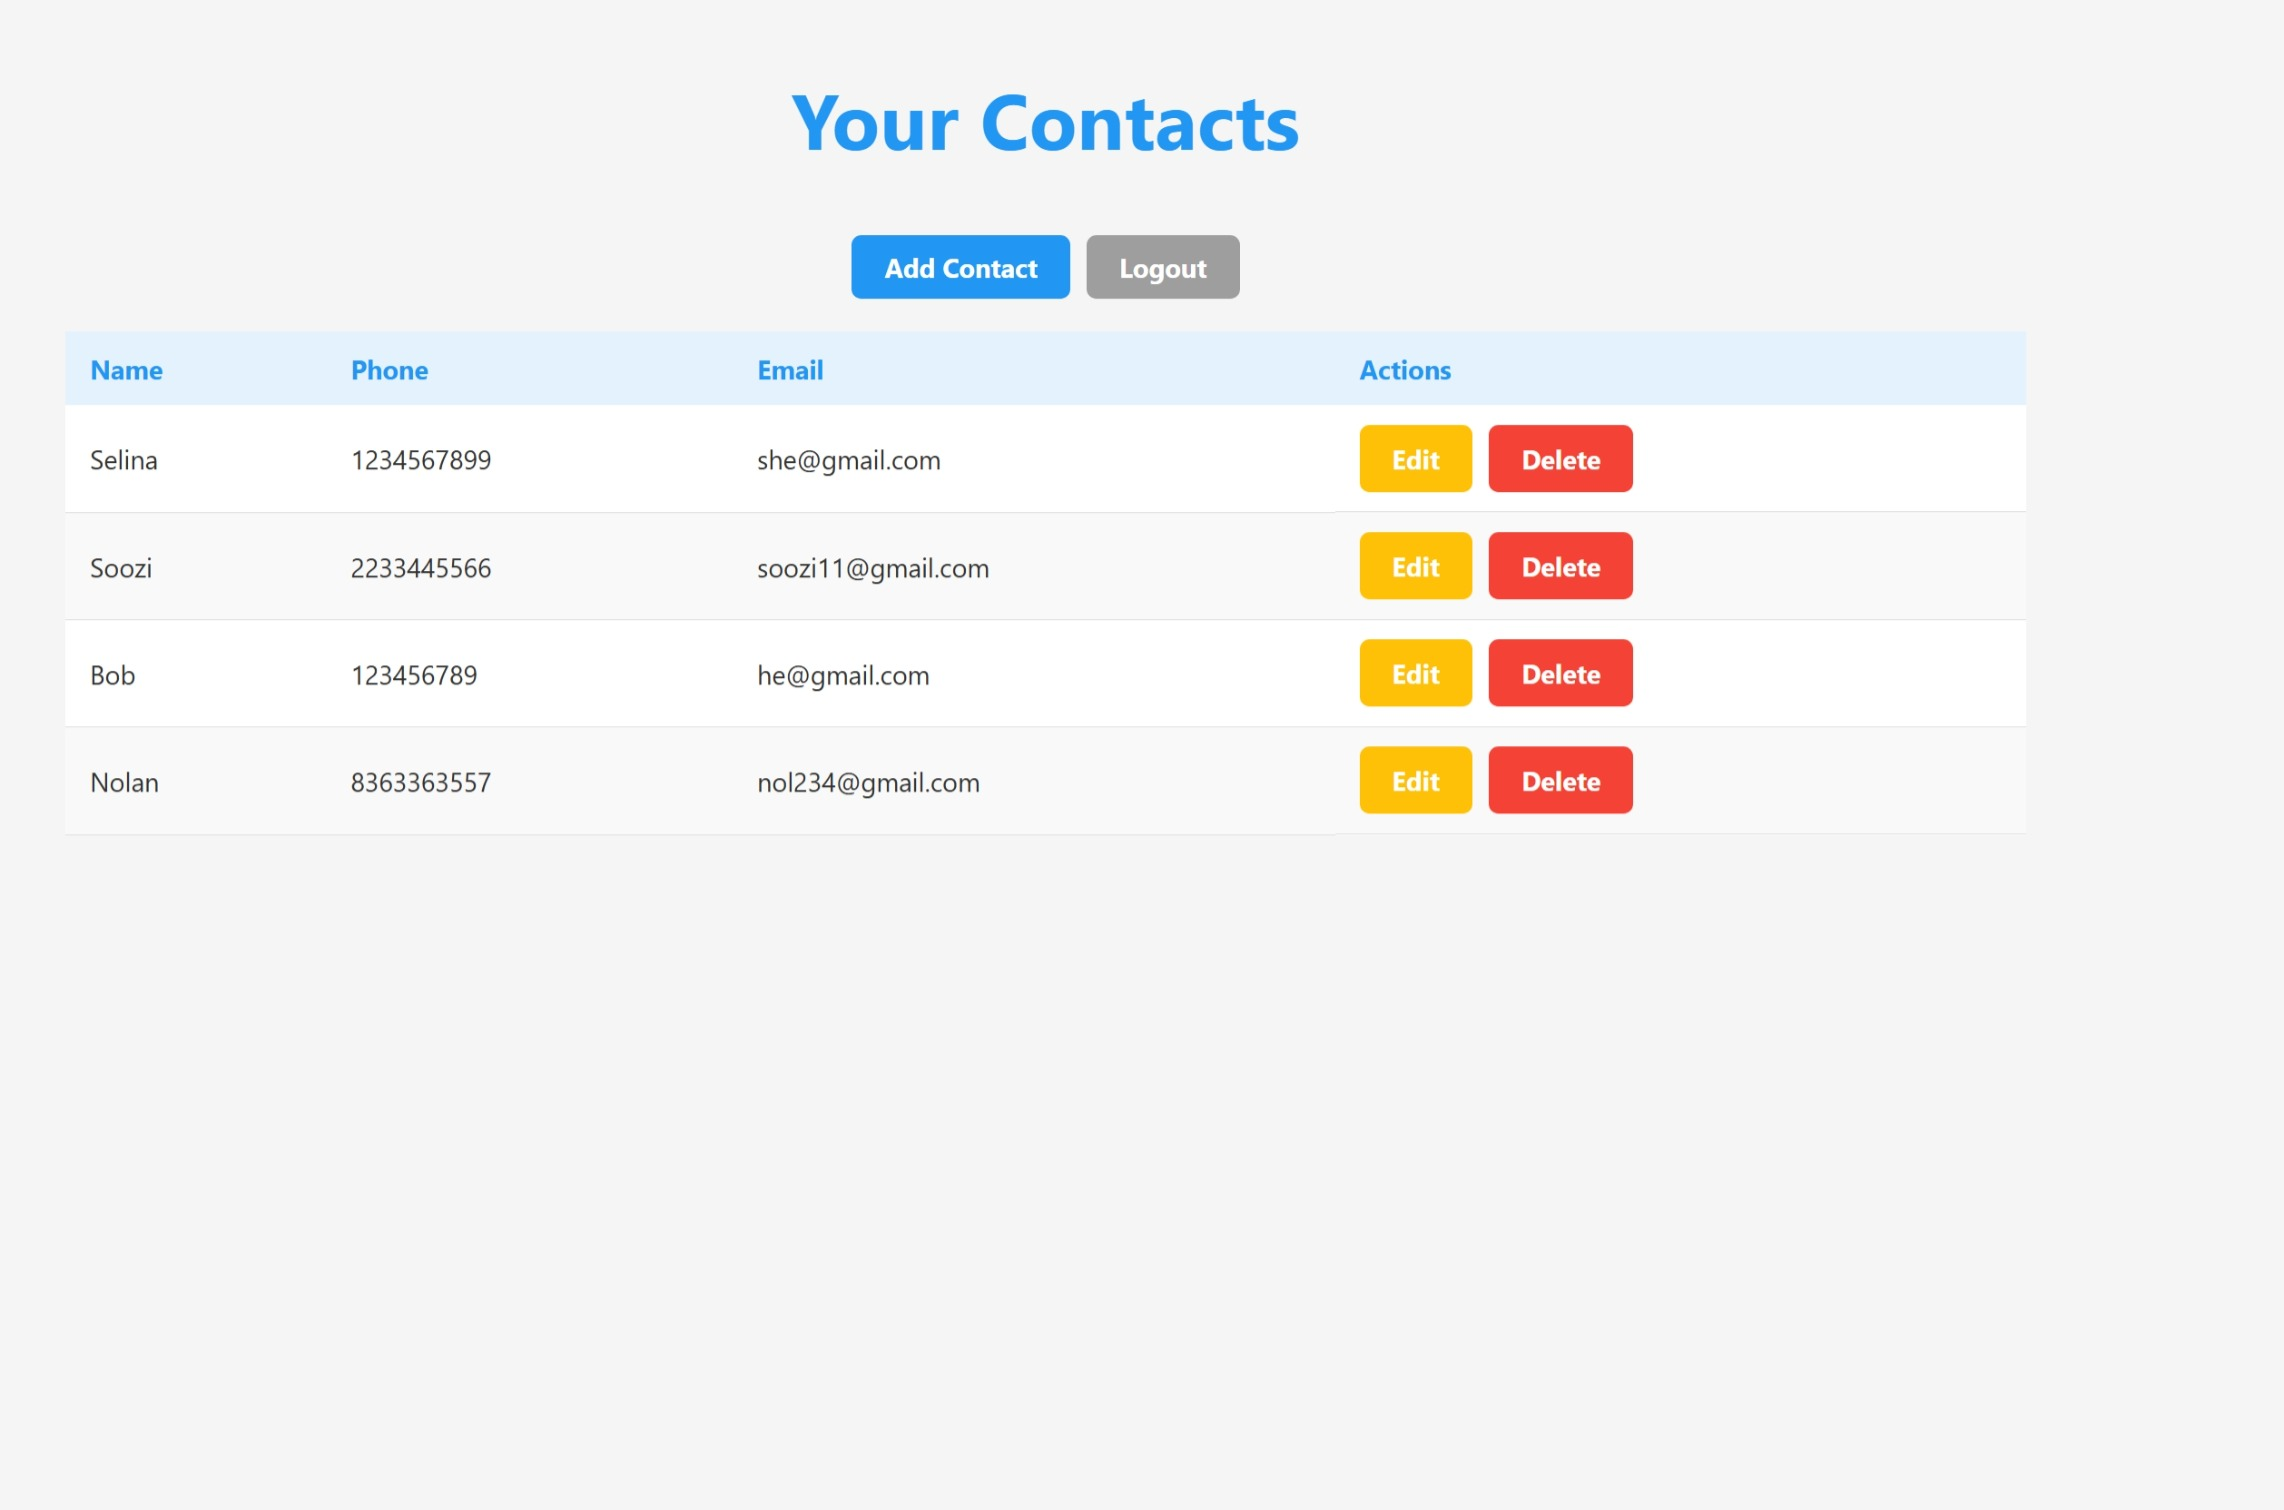
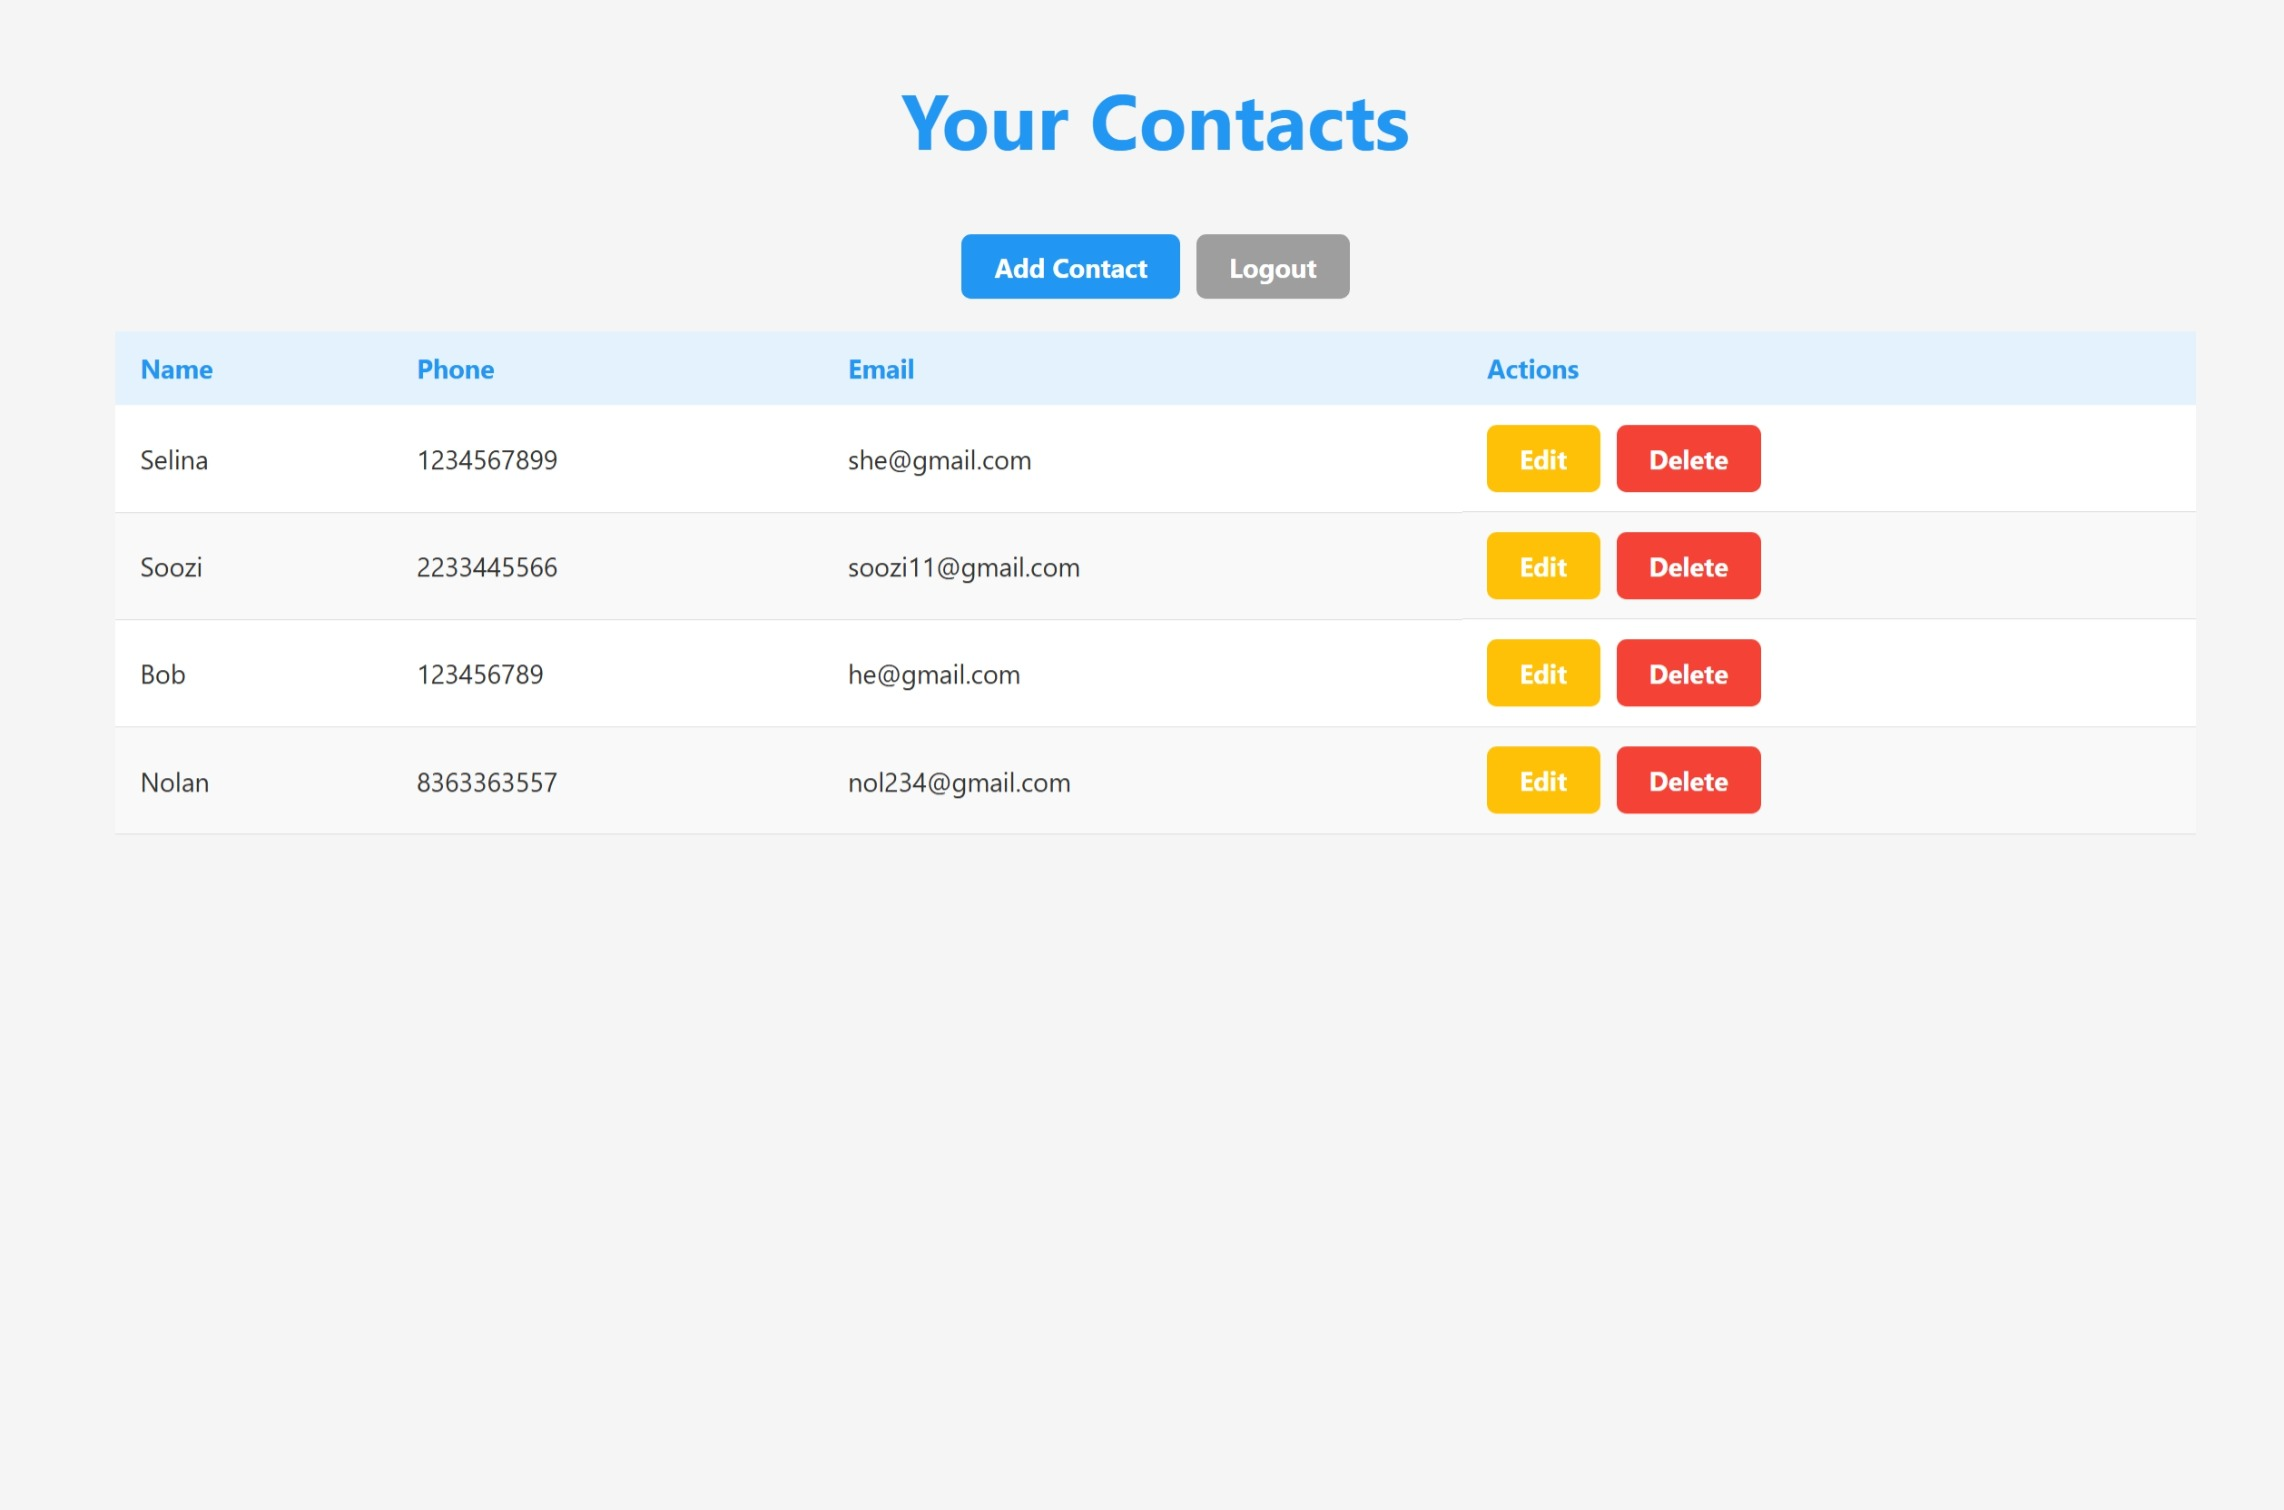
Updated screenshots

diff --git a/static/style.css b/static/style.css
@@ -1,11 +1,10 @@
- body {
+body {
   background: #f5f5f5;
   margin: 0;
   padding: 0;
   font-family: "Segoe UI", Arial, sans-serif;
   min-height: 100vh;
 }
-
 
 .main-content {
   display: flex;
@@ -60,7 +59,6 @@
   outline: none;
 }
 
-
 .login-container button,
 .register-container button,
 .login-container input[type="submit"],
@@ -94,7 +92,6 @@
 .register-container a:hover {
   text-decoration: underline;
 }
-
 
 .flash {
   position: fixed;
@@ -159,13 +156,13 @@
   display: inline;
 }
 
-
 .contacts-wrapper {
   width: 100%;
   max-width: 1200px;
   margin: 40px;
   box-sizing: border-box;
-  
+  max-width: 90%;
+  margin: 0 auto;
 }
 
 .contacts-header {
@@ -174,7 +171,6 @@
   font-size: 2rem;
   text-align: center;
 }
-
 
 .actions {
   display: flex;
@@ -216,7 +212,6 @@
   background: #757575;
 }
 
-
 .table-wrapper {
   overflow-x: visible;
 }
@@ -256,7 +251,6 @@ tbody tr:hover {
   gap: 10px;
 }
 
-
 .btn-edit {
   background: #ffc107;
   color: #fff;
@@ -274,7 +268,12 @@ tbody tr:hover {
 .btn-delete:hover {
   background: #d32f2f;
 }
-
+.no-contacts {
+  text-align: center;
+  font-size: 1.2rem;
+  color: #757575;
+  margin-top: 20px;
+}
 
 @media (max-width: 600px) {
   thead {
@@ -335,7 +334,6 @@ tbody tr:hover {
     justify-content: center;
   }
 }
-
 
 .form-container {
   background: #ffffff;
